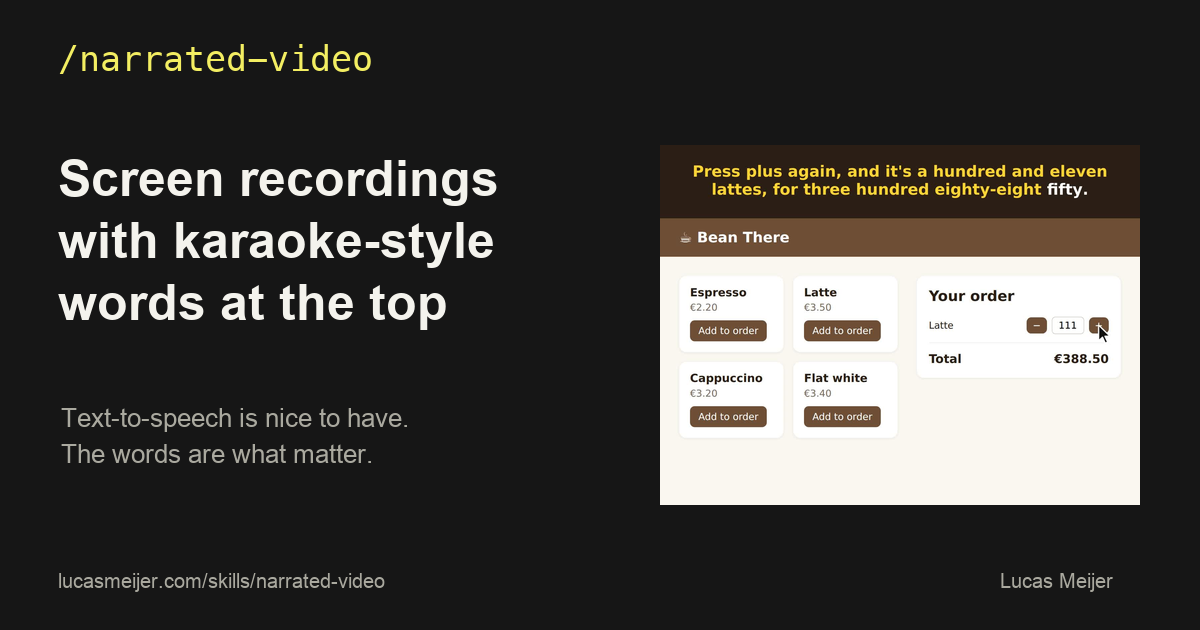
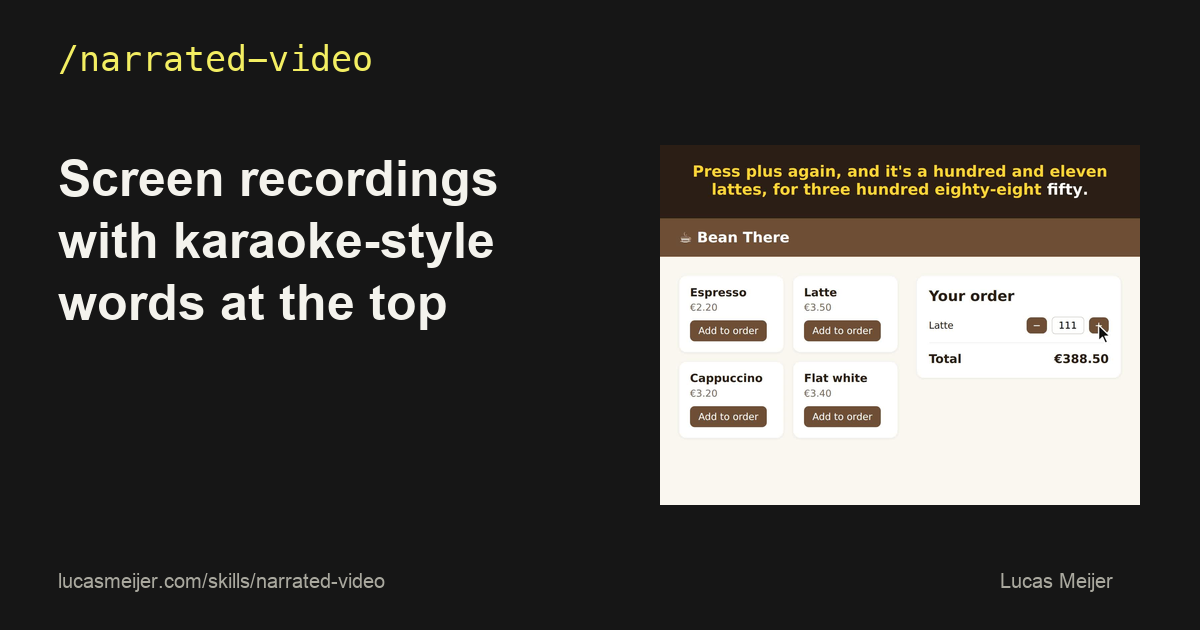
Remove extra tagline from narrated-video social card

Changed region(s): [[0.0617, 0.6333, 0.3392, 0.754]]

diff --git a/skills/narrated-video/index.html b/skills/narrated-video/index.html
@@ -9,8 +9,8 @@
   <meta property="og:type" content="website">
   <meta property="og:url" content="https://lucasmeijer.com/skills/narrated-video/">
   <meta property="og:title" content="/narrated-video — Words at the top.">
-  <meta property="og:description" content="Screen recordings with karaoke-style words at the top. Text-to-speech is nice to have, but the words are what matter.">
-  <meta property="og:image" content="https://lucasmeijer.com/skills/narrated-video/social-card.png">
+  <meta property="og:description" content="Screen recordings with karaoke-style words at the top.">
+  <meta property="og:image" content="https://lucasmeijer.com/skills/narrated-video/social-card.png?v=2">
   <meta property="og:image:width" content="1200">
   <meta property="og:image:height" content="630">
   <meta property="og:image:alt" content="/narrated-video. Screen recordings with karaoke-style words at the top. An actual video frame shows a bug in a coffee order app.">
@@ -18,8 +18,8 @@
   <meta name="twitter:site" content="@lucasmeijer">
   <meta name="twitter:creator" content="@lucasmeijer">
   <meta name="twitter:title" content="/narrated-video — Words at the top.">
-  <meta name="twitter:description" content="Screen recordings with karaoke-style words at the top. Text-to-speech is nice to have, but the words are what matter.">
-  <meta name="twitter:image" content="https://lucasmeijer.com/skills/narrated-video/social-card.png">
+  <meta name="twitter:description" content="Screen recordings with karaoke-style words at the top.">
+  <meta name="twitter:image" content="https://lucasmeijer.com/skills/narrated-video/social-card.png?v=2">
   <meta name="twitter:image:alt" content="/narrated-video. Screen recordings with karaoke-style words at the top, illustrated with a real video frame.">
   <link rel="icon" href="/favicon.ico">
   <link rel="stylesheet" href="styles.css">
